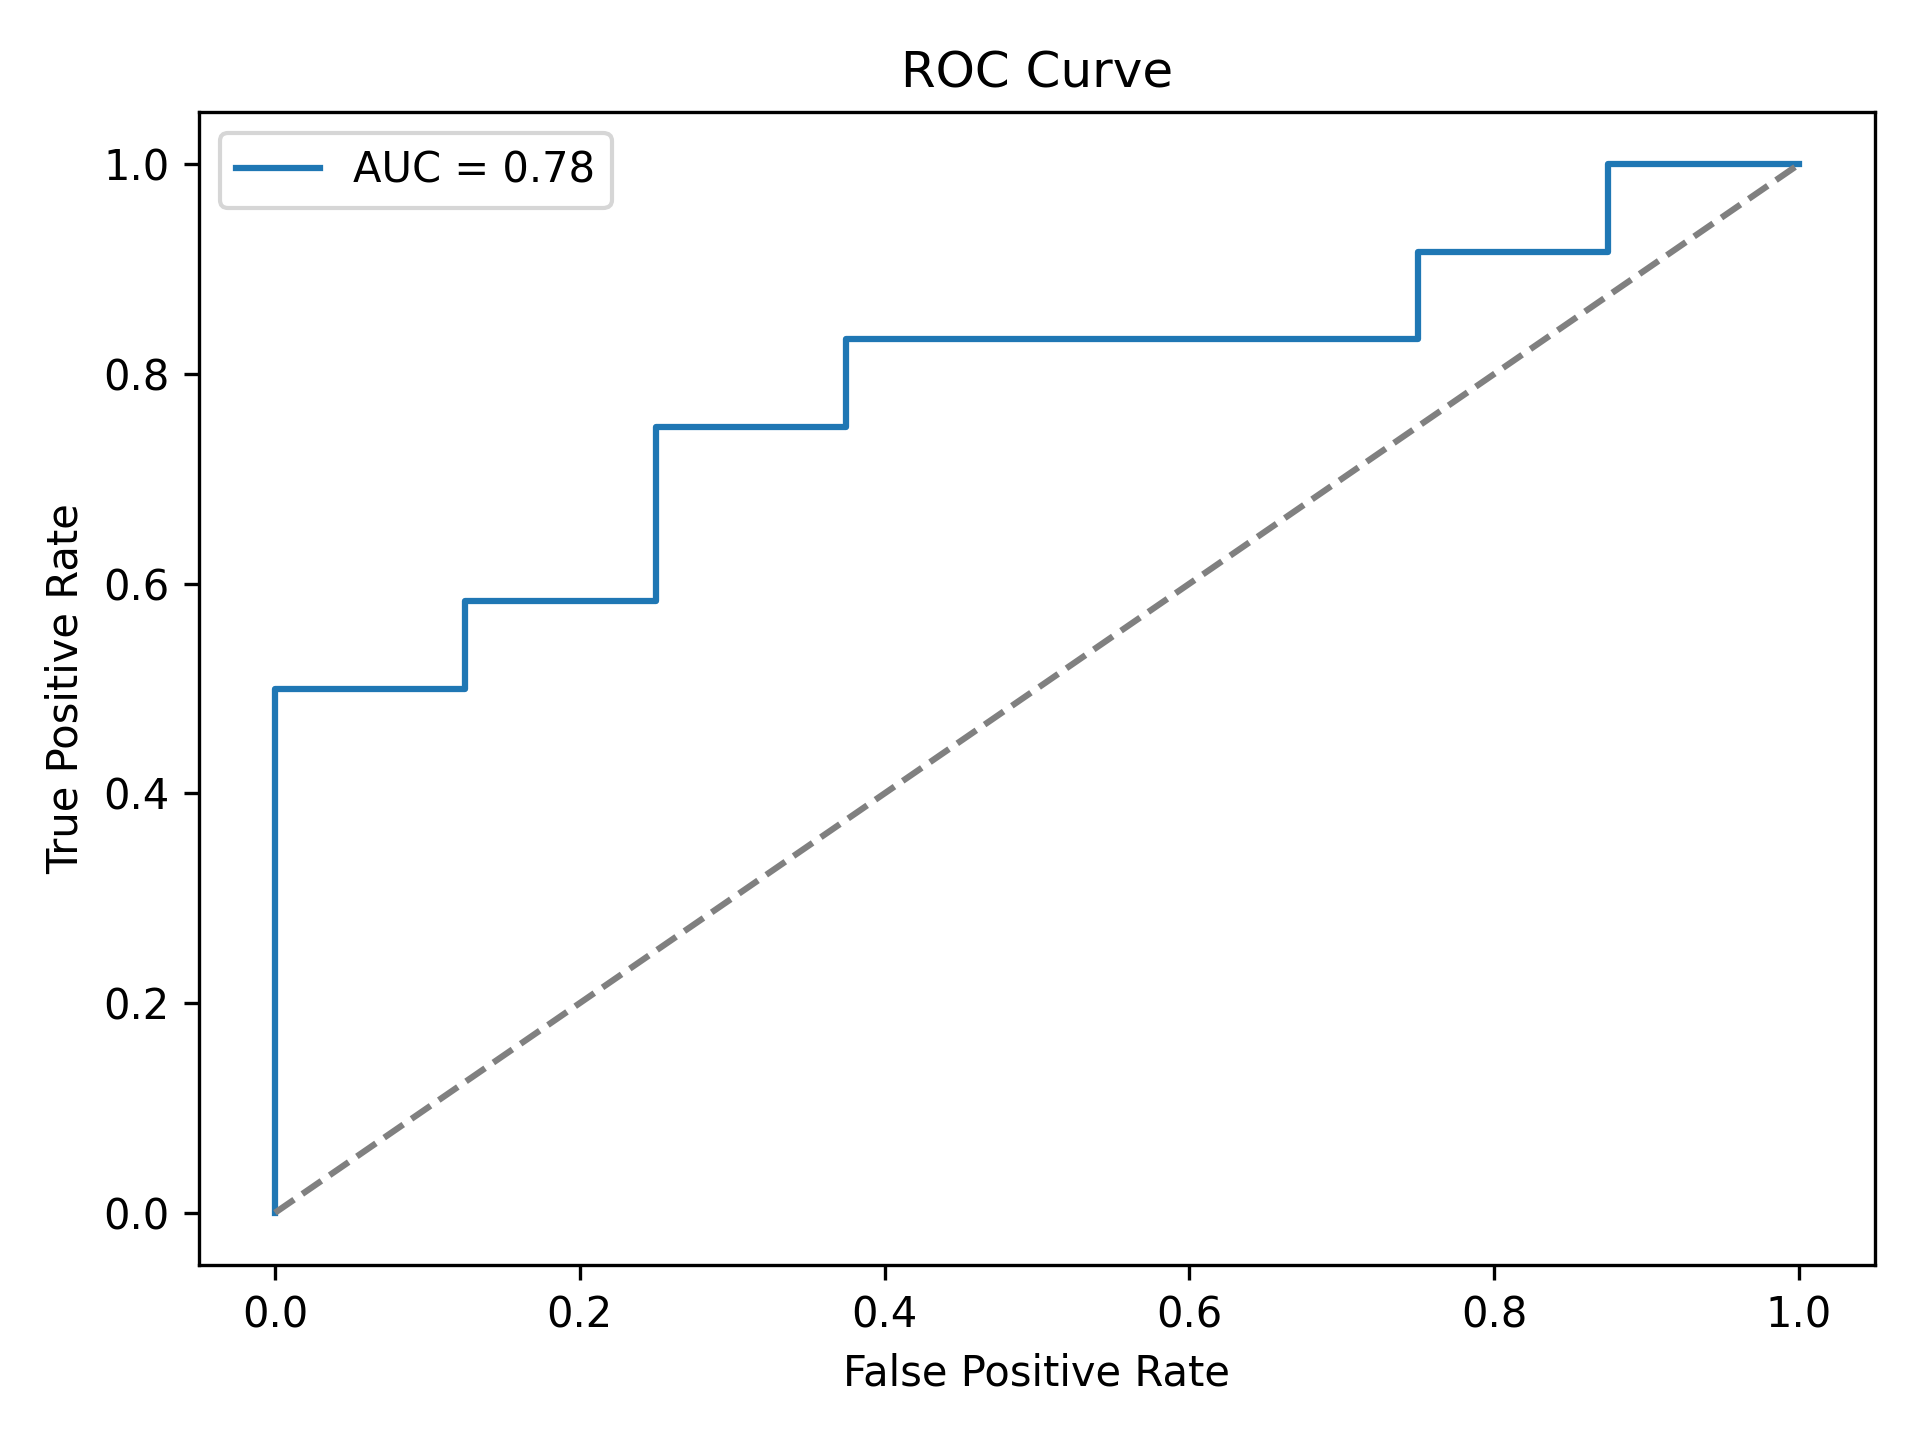
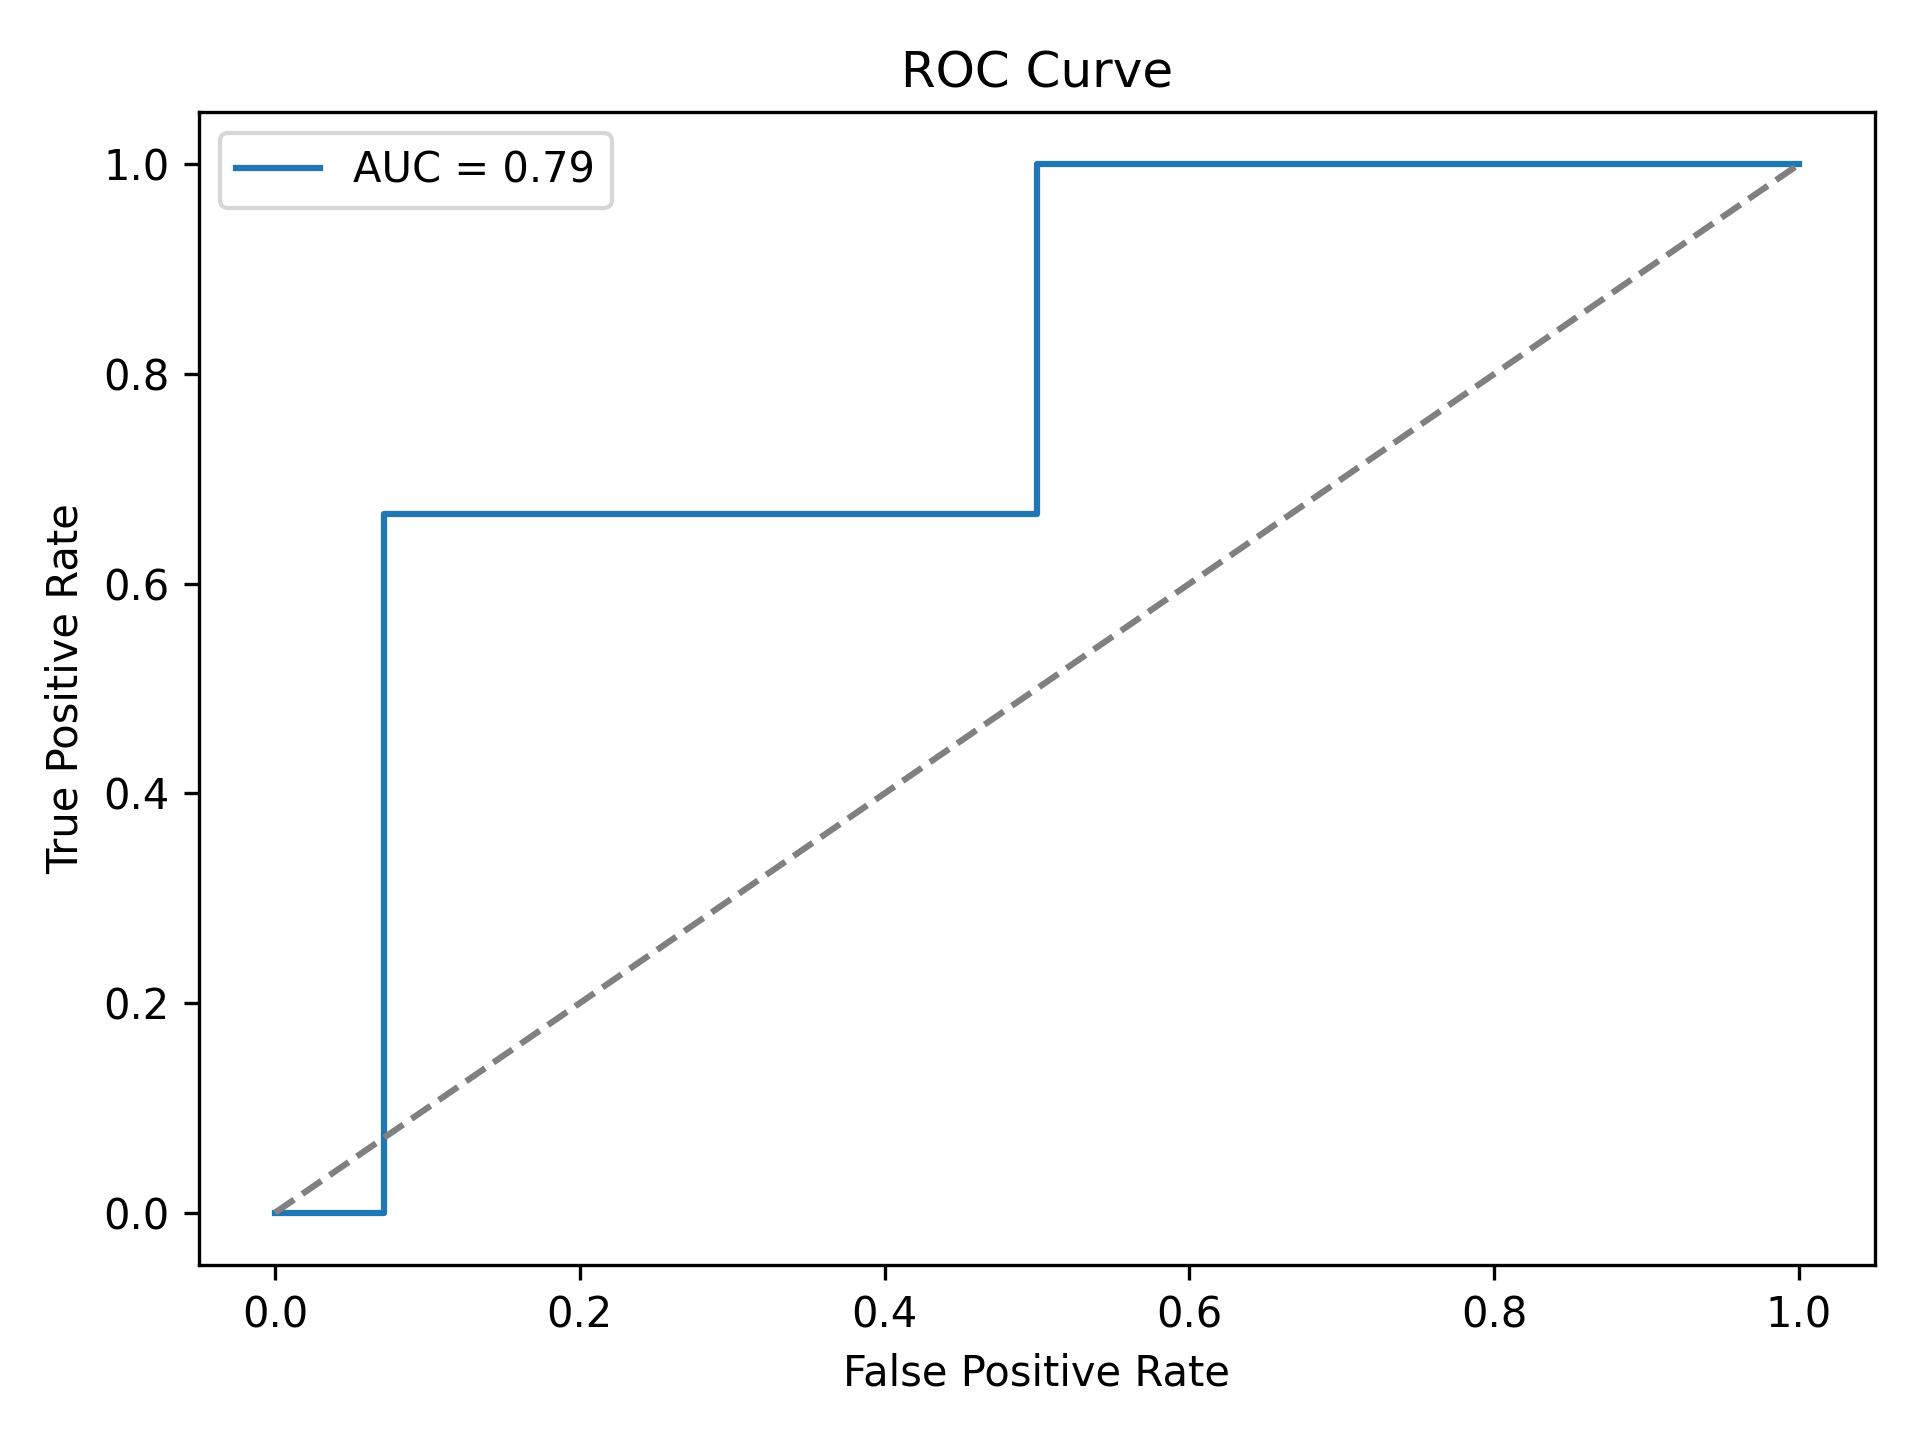
updated dataset to revolve around deposition of conductive ink, fixed datagen to give realistic sig figs and operating ranges

Changed region(s): [[0.125, 0.0938, 0.8438, 0.8438], [0.3438, 0.2812, 0.4375, 0.3125], [0.2812, 0.0938, 0.3125, 0.125]]

diff --git a/data_generator.py b/data_generator.py
@@ -3,44 +3,52 @@ import numpy as np
 import os
 
 ## @file data_generator.py
-#  @brief Generates synthetic experimental data for materials synthesis.
-#         Data includes process parameters and a binary success label.
+#  @brief Generates synthetic experimental data for conductive ink deposition experiments.
+#         Outputs include process parameters and resulting electrical resistance.
 
-## @brief Generates a synthetic dataset of materials synthesis experiments.
-#  Includes randomized parameters and probabilistic success labels.
+## @brief Generates a synthetic dataset for conductive ink deposition.
+#  Simulates multiple experimental parameters and a continuous resistance value.
+#  Binary success is determined based on a threshold resistance.
 #  @param n Number of samples to generate.
 #  @return pd.DataFrame The generated dataset.
 def make_data(n=100):
-    temp = np.random.uniform(80, 200, n)
-    speed = np.random.uniform(1000, 4000, n)
-    ratio = np.random.uniform(0.2, 0.8, n)
-    time = np.random.uniform(10, 60, n)
-    concentration = np.random.uniform(0.1, 1.0, n)
-    anneal_time = np.random.uniform(30, 300, n)
+    # Experimental parameters (inputs)
+    flow_rate = np.round(np.random.uniform(1.0, 10.0, n), 2)  # µL/s
+    line_length = np.round(np.random.uniform(10, 100, n), 1)  # mm
+    ink_concentration = np.round(np.random.uniform(30, 70, n), 1)  # wt%
+    drying_time = np.round(np.random.uniform(30, 300, n), 0)  # seconds
+    substrate_temp = np.round(np.random.uniform(20, 80, n), 1)  # °C
+    nozzle_height = np.round(np.random.uniform(0.5, 2.0, n), 2)  # mm
+    # Simulated resistance (Ω), influenced by inputs
+    base_resistance = 5
+    resistance = (
+        base_resistance +
+        (line_length / ink_concentration) * 2.5 +
+        (100 - flow_rate) * 0.1 +
+        (nozzle_height * 3) +
+        np.random.normal(0, 2, n)  # noise
+    )
+    resistance = np.round(resistance, 2)
 
-    prob_success = (
-        (temp > 120).astype(int) +
-        ((1500 < speed) & (speed < 3500)).astype(int) +
-        ((0.3 < ratio) & (ratio < 0.7)).astype(int) +
-        ((0.2 < concentration) & (concentration < 0.8)).astype(int) +
-        ((60 < anneal_time) & (anneal_time < 240)).astype(int)
-    ) / 5.0
+    # Define success as resistance below a threshold (e.g., 15 Ω)
+    success_threshold = 20
+    success = (resistance < success_threshold).astype(int)
 
-    success = (np.random.rand(n) < prob_success).astype(int)
-
+    # Build DataFrame
     df = pd.DataFrame({
-        'temperature [C]': temp,
-        'spin speed [rpm]': speed,
-        'solvent ratio [-]': ratio,
-        'deposition time [s]': time,
-        'solute concentration [mol/L]': concentration,
-        'annealing time [s]': anneal_time,
+        'flow rate [µL/s]': flow_rate,
+        'line length [mm]': line_length,
+        'ink concentration [wt%]': ink_concentration,
+        'drying time [sec]': drying_time,
+        'substrate temperature [°C]': substrate_temp,
+        'nozzle height [mm]': nozzle_height,
+        'resistance [Ω]': resistance,
         'success [-]': success
     })
 
     return df
 
-## @brief Saves a DataFrame to CSV, appending to an existing file if present.
+## @brief Appends data to CSV, creating file if it doesn't exist.
 #  @param df DataFrame to save.
 #  @param fname Output file name (default: "materials_data.csv").
 def write_to_csv(df, fname="materials_data.csv"):

diff --git a/model_runner.py b/model_runner.py
@@ -16,8 +16,8 @@ def run_model(data_file="materials_data.csv"):
     df = pd.read_csv(data_file).dropna()
 
     features = [
-        "temperature [C]", "spin speed [rpm]", "solvent ratio [-]",
-        "deposition time [s]", "solute concentration [mol/L]", "annealing time [s]"
+        "flow rate [µL/s]", "line length [mm]", "ink concentration [wt%]",
+        "drying time [sec]", "substrate temperature [°C]", "nozzle height [mm]"
     ]
     X = df[features]
     y = df["success [-]"]
